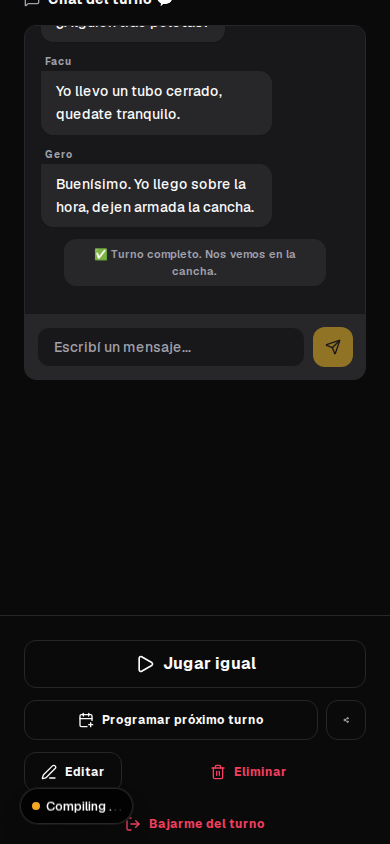
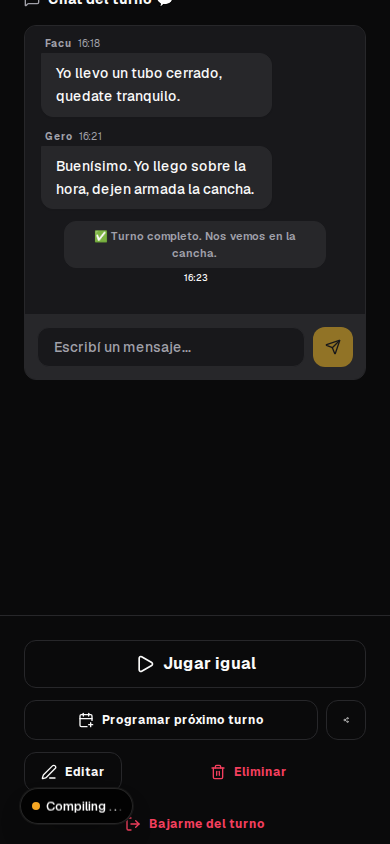
🎨 Palette: Standardize empty-slot button and player slot card to solid layouts
- Refactored unexpanded empty-slot add-player button in `AddPlayerButton` from translucent `bg-primary/5` with primary border to MDS-compliant solid `bg-card` with `border-border`, adding tactile `active:scale-[0.98]` feedback.
- Standardized verified player read-only slot container inside `ManageSlotModal` from transparent `bg-primary/5` to solid `bg-muted` and neutral text.
- Verified with E2E Playwright scripts and ensured build compiles successfully.

Changed region(s): [[0.0923, 0.0308, 0.7692, 0.3389]]

diff --git a/src/components/turns/add-player-button.tsx b/src/components/turns/add-player-button.tsx
@@ -100,10 +100,10 @@ export function AddPlayerButton({
     return (
       <button
         onClick={() => setExpanded(true)}
-        className="flex items-center gap-3 rounded-xl border border-dashed border-primary/40 bg-primary/5 px-4 py-3 text-primary transition-colors hover:bg-primary/10 w-full focus-visible:outline-none focus-visible:ring-2 focus-visible:ring-ring focus-visible:ring-offset-2 ring-offset-background"
+        className="flex items-center gap-3 rounded-xl border border-dashed border-border bg-card px-4 py-3 text-foreground transition-all hover:bg-muted w-full focus-visible:outline-none focus-visible:ring-2 focus-visible:ring-ring focus-visible:ring-offset-2 ring-offset-background active:scale-[0.98]"
         aria-label="Agregar jugador al turno"
       >
-        <div className="flex h-10 w-10 items-center justify-center rounded-lg bg-primary/10">
+        <div className="flex h-10 w-10 items-center justify-center rounded-lg bg-muted text-primary">
           <UserPlus className="h-5 w-5" />
         </div>
         <div className="flex-1 text-left">

diff --git a/src/components/matches/manage-slot-modal.tsx b/src/components/matches/manage-slot-modal.tsx
@@ -253,7 +253,7 @@ export function ManageSlotModal({
           {isUserSlot && !canEdit ? (
             /* Confirmed user slot — read-only display */
             <div className="space-y-4">
-              <div className="flex items-center gap-3 rounded-lg border border-primary/20 bg-primary/5 p-4">
+              <div className="flex items-center gap-3 rounded-lg border border-border bg-muted p-4">
                 <PlayerAvatar
                   name={slot.player.displayName}
                   image={slot.player.image ?? undefined}
@@ -261,7 +261,7 @@ export function ManageSlotModal({
                   className="rounded-lg"
                 />
                 <div className="flex-1 min-w-0">
-                  <p className="text-sm font-bold text-primary truncate">
+                  <p className="text-sm font-bold text-foreground truncate">
                     {slot.player.displayName}
                   </p>
                   <p className="text-xs text-muted-foreground">Jugador verificado</p>

diff --git a/.Jules/palette.md b/.Jules/palette.md
@@ -101,3 +101,7 @@
 ## 2026-08-12 - [Dashboard Metrics Accessibility & MDS Solid-Background Refinement]
 **Learning:** On highly customized layout landing points like main dashboards, card links representing complex structural metrics (such as current ranking position, total matches played, wins count, and attendance reputation) frequently get announced by screen readers as isolated numerical fragments without cohesive context. Explicitly defining descriptive, dynamically pluralized/contextual `aria-label` tags on the link containers provides a complete programmatic story for assistive technologies. Furthermore, substituting translucent hover styling with standard solid highlights (e.g., `hover:bg-muted`) preserves strict MDS solid-background constraints while active scaling transitions (`active:scale-[0.98] transition-all`) improve tactile feedback.
 **Action:** When designing stats or summary links in content dashboards, always supply descriptive `aria-label` containers with solid-color hover background variables and tactile mobile animations.
+
+## 2026-08-13 - [Neutral Token Standardization and Contrast Alignment]
+**Learning:** Overusing high-saturation, brand-colored container highlights (like translucent `bg-primary/5` and `border-primary/20`) on informational card displays can result in poor contrast and visual noise. Shifting read-only player displays and unexpanded action panels to neutral tokens (like solid `bg-muted` or `bg-card` with `border-border` and `text-foreground`) aligns the interface with standard cognitive hierarchies, while integrating `active:scale-[0.98]` tactile responses preserves delightful interaction feedback.
+**Action:** Always prefer solid neutral background colors and standard high-contrast text styles for static metadata and secondary cards to guarantee legibility and respect the Minimal Design System constraints.
